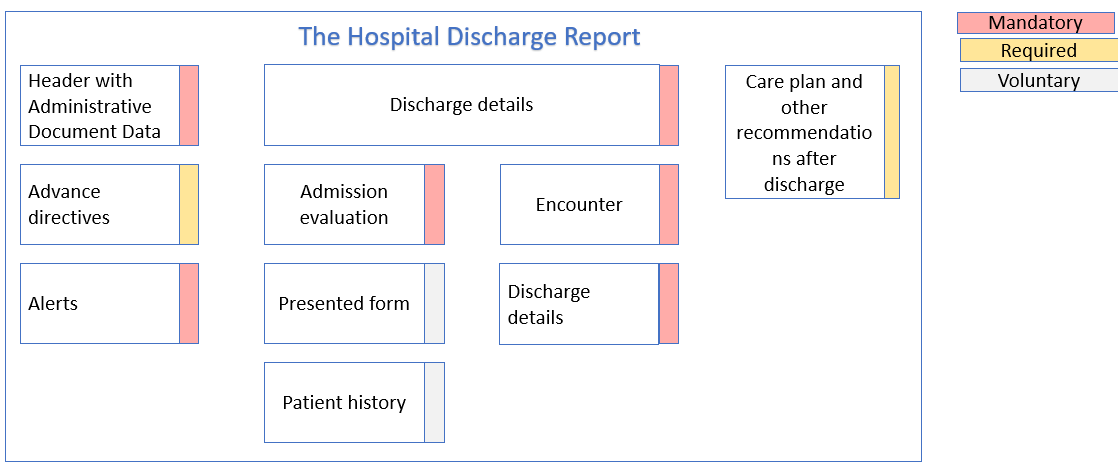
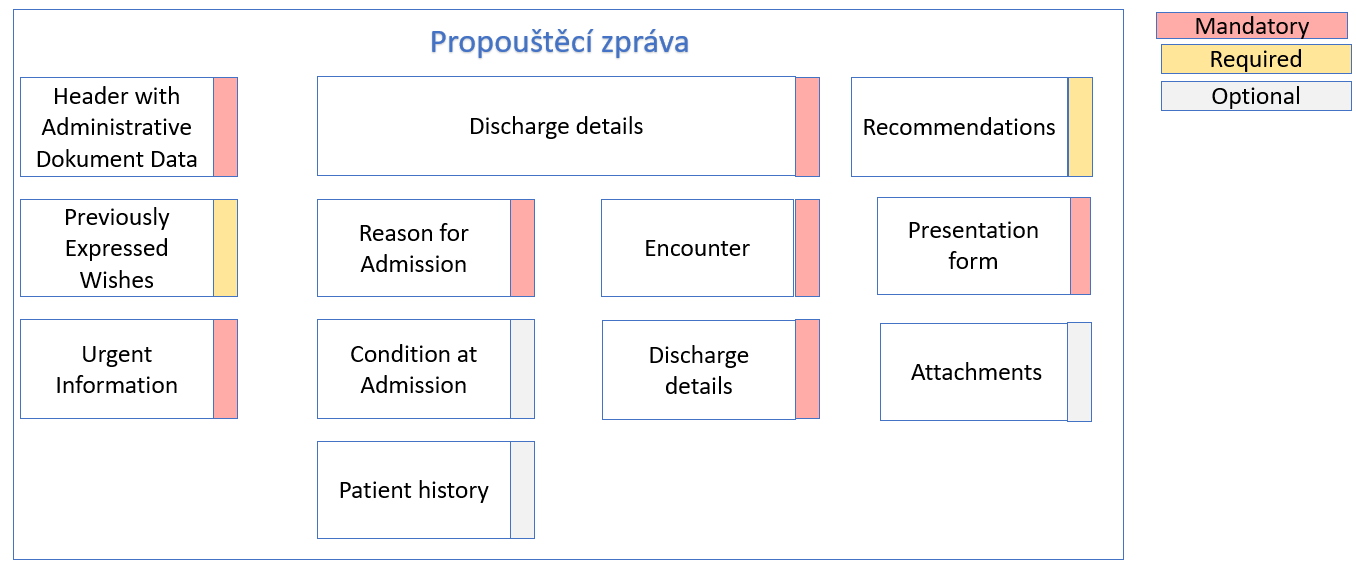
Práce na MENU IG zapracování připomínek

diff --git a/input/pagecontent/index.md b/input/pagecontent/index.md
@@ -10,10 +10,9 @@ This guide does not describe how to exchange this message.
 ### Information Models
 
 <div>
-  <img src="hdr_schema_EN.png" class="figure-img img-responsive img-rounded center-block" width="70%">
+  <img src="hdr_schema_en.png" class="figure-img img-responsive img-rounded center-block" width="70%">
   <p><strong>Fig. 1: Hospital discharge report structure</strong></p>
 </div>
-
 
 Basic Sections of the Hospital Discharge Report
 
@@ -27,9 +26,11 @@ Basic Sections of the Hospital Discharge Report
 | A.2.4 Reason for Admission | 0..1 | Required | [Link](ConceptMap-advanceDirectives2FHIR-cz-hdr.html) |
 | A.2.5 Condition at Admission (Initial Examination) | 0..1 | Optional | [Link](ConceptMap-advanceDirectives2FHIR-cz-hdr.html) |
 | A.2.6 Medical History | 0..1 | Optional | [Link](ConceptMap-advanceDirectives2FHIR-cz-hdr.html) |
-| A.2.7 Course of Hospitalization| 1..1| Mandatory| [Link](ConceptMap-advanceDirectives2FHIR-cz-hdr.html) |
-| A.2.8 Condition at Discharge|	1..1| Mandatory | [Link](ConceptMap-advanceDirectives2FHIR-cz-hdr.html) |
-| A.2.9 Recommendations| 0..1 | Required | [Link](ConceptMap-advanceDirectives2FHIR-cz-hdr.html) |
+| A.2.7 Course of Hospitalization | 1..1| Mandatory| [Link](ConceptMap-advanceDirectives2FHIR-cz-hdr.html) |
+| A.2.8 Condition at Discharge |	1..1| Mandatory | [Link](ConceptMap-advanceDirectives2FHIR-cz-hdr.html) |
+| A.2.9 Recommendations | 0..1 | Required | [Link](ConceptMap-advanceDirectives2FHIR-cz-hdr.html) |
+| A.3 Presentation form | 1..1 | Mandatory | [Link] |
+| A.4 Attachments | 0..1 | Optional | [Link] |
 
 
 ### Scope

diff --git a/input/pagecontent/model-map-cs.md b/input/pagecontent/model-map-cs.md
@@ -1,0 +1,17 @@
+Tato stránka obsahuje seznam stránek dokumentujících s grafickým znázorněním mapování mezi logickými modely a použitými zdroji/profily
+
+| Logical Model                | Link                                      |
+|------------------------|-------------------------------------------|
+| Propouštěcí zpráva     | [HospitalDischargeReport-map.html](HospitalDischargeReport-map.html) |
+| Hlavička dokumentu     | [Header-map.html](Header-map.html)        |
+| Subjekt                | [Subject-map.html](Subject-map.html)      |
+| Stav při přijetí       | [InPatientEncounter-map.html](InPatientEncounter-map.html) |
+| Důvod přijetí          | [AdmissionEvaluation-map.html](AdmissionEvaluation-map.html) |
+| Stav při propuštění    | [ObjectiveFindings-map.html](ObjectiveFindings-map.html) |
+| FunctionalStatus       | [FunctionalStatus-map.html](FunctionalStatus-map.html) |
+| Anamnéza               | [PatientHistoryEhn-map.html](PatientHistoryEhn-map.html) |
+| Údaje o hospitalizaci  | [HospitalStay-map.html](HospitalStay-map.html) |
+| Urgentní informace     | [Alerts-map.html](Alerts-map.html)        |
+| Dříve vyjádřená přání  | [AdvanceDirectives-map.html](AdvanceDirectives-map.html) |
+| Medikace               | [MedicationSummary-map.html](MedicationSummary-map.html) |
+| Plán péče              | [PlanOfCare-map.html](PlanOfCare-map.html) |

diff --git a/input/pagecontent/index-cs.md b/input/pagecontent/index-cs.md
@@ -11,7 +11,7 @@ Toto zahrnuje jak národní, tak přeshraniční scénáře.
 ### Information Models
 
 <div>
-  <img src="hdr_block.png" class="figure-img img-responsive img-rounded center-block" width="70%">
+  <img src="hdr_schema_cz.png" class="figure-img img-responsive img-rounded center-block" width="70%">
   <p><strong>Fig. 1: Struktura propouštěcí zprávy</strong></p>
 </div>
 
@@ -31,6 +31,9 @@ Základní sekce propouštěcí zprávy z nemocnice
 | A.2.7 Průběh hospitalizace | 1..1 | Povinné | [Composition.sectionDischargeDetails](http://hl7.cz/fhir/hdr/ConceptMap/hdr2FHIR-cz-hdr#HospitalDischargeReport.body.dischargeDetails) |
 | A.2.8 Stav při propuštění | 1..1 | Povinné | [Composition.sectionDischargeDetails.objectiveFindings](http://hl7.cz/fhir/hdr/ConceptMap/hdr2FHIR-cz-hdr#HospitalDischargeReport.body.dischargeDetails.objectiveFindings) *(+functional status, note…)* |
 | A.2.9 Doporučení | 0..1 | Požadováno | [Composition.sectionPlanOfCare / sectionDischargeMedications / sectionDischargeInstructions](http://hl7.cz/fhir/hdr/ConceptMap/hdr2FHIR-cz-hdr#HospitalDischargeReport.body.recommendations) |
+| A.3 Zobrazitelná forma dokumentu | 1..1 | Povinné | [Link] |
+| A.4 Přílohy | 0..1 | Volitelné | [Link] |
+
 
 
 ### Rozsah

diff --git a/input/pagecontent/downloads-cs.md b/input/pagecontent/downloads-cs.md
@@ -1,0 +1,35 @@
+### Celkové implementační příručka
+
+Implementační příručka lze nahrát [zde](full-ig.zip).
+
+### NPM Archiv a definice
+
+Následující soubor obsahuje všechny valuesety, profily, extenze, stránky a url apod. definované části této Implementační příručky:
+
+- [NPM Package](package.tgz)
+
+Kromě toho existují definiční soubory specifické pro daný formát:
+
+- [XML](definitions.xml.zip)
+- [JSON](definitions.json.zip)
+- [TTL](definitions.ttl.zip)
+
+Tyto soubory by měly být první volbou při generování jakýchkoli implementačních artefaktů, protože obsahují všechna pravidla o tom, proč jsou tyto profily platné.
+
+Existují také balíčky pro specifikace R4 a R4B FHIR:
+
+#### R4 NPM archiv a definice
+
+- [R4 NPM Archiv](package.r4.tgz)
+
+#### R4B NPM archiv a definice
+
+- [R4B NPM Archiv](package.r4b.tgz)
+
+### Příklady
+
+Všechny příklady použité v této Implementační příručce jsou k dispozici ke stažení:
+
+- [XML](examples.xml.zip)
+- [JSON](examples.json.zip)
+- [TTL](examples.ttl.zip)

diff --git a/input/pagecontent/examples-cs.md b/input/pagecontent/examples-cs.md
@@ -1,0 +1,18 @@
+Všechny příklady lze nalézt na stránce [artifacts](artifacts.html).
+
+
+### Příklad propouštěcí zprávy 
+
+ Hlavním příklad [Propouštěcí zpráva Novák Petr](Bundle-DischargeBundle-Novak-Petr.html) 
+
+### Příklady profilů
+
+ - Příklad [Pacient](Patient-Novak-Petr.html)
+ - Příklad [Průběh hospitalizace](Encounter-HospitalEncounter-Novak-Petr.html)
+ - Příklad [Plán péče](CarePlan-CarePlan-Novak-Petr.html)
+ - Příklad [Medikace: Euthyrox](MedicationStatement-MedicationStatement-Euthyrox-Novak.html)
+ - Příklad [Medikace: Ibalgin400](Medication-med-Ibalgin400.html)
+ - Příklad [Medikace: Paracetamol](Medication-med-paracetamol.html)
+ - Příklad [CRP](Observation-Observation-CRP-Novak.html)
+ - Příklad [UZV](Observation-Observation-UZV-Novak.html)
+ 

diff --git a/input/pagecontent/examples.md b/input/pagecontent/examples.md
@@ -1,0 +1,18 @@
+All examples can be found in the [artifacts](artifacts.html) page.
+
+### Imaging order example
+
+Main example [HDR Novák Petr](Bundle-DischargeBundle-Novak-Petr.html) 
+
+
+### Examples of profiles
+
+ - Exampl [Patient](Patient-Novak-Petr.html)
+ - Exampl [Encounter](Encounter-HospitalEncounter-Novak-Petr.html)
+ - Exampl [Care Plan](CarePlan-CarePlan-Novak-Petr.html)
+ - Exampl [MedicationStatement: Euthyrox](MedicationStatement-MedicationStatement-Euthyrox-Novak.html)
+ - Exampl [MedicationStatement: Ibalgin400](Medication-med-Ibalgin400.html)
+ - Exampl [MedicationStatement: Paracetamol](Medication-med-paracetamol.html)
+ - Exampl [CRP](Observation-Observation-CRP-Novak.html)
+ - Exampl [UZV](Observation-Observation-UZV-Novak.html)
+ 

diff --git a/input/pagecontent/obligations-cs.md b/input/pagecontent/obligations-cs.md
@@ -1,0 +1,10 @@
+<div xmlns="http://www.w3.org/1999/xhtml" xmlns:xsi="http://www.w3.org/2001/XMLSchema-instance"> 
+<blockquote class="stu-note"> 
+<b>Informativní pro tuto verzi průvodce</b> 
+<p>Do této verze příručky byly přidány povinnosti pouze jako informativní materiál ke shromažďování zpětné vazby o jejich používání.</p> 
+</blockquote>
+</div>
+
+### Přehled
+
+Na této stránce bude vložen přehled všech povinností.

diff --git a/input/pagecontent/background.md b/input/pagecontent/background.md
@@ -1,0 +1,7 @@
+<div xmlns="http://www.w3.org/1999/xhtml" xmlns:xsi="http://www.w3.org/2001/XMLSchema-instance"> 
+<blockquote class="stu-note"> 
+<b>This is being prepared for inclusion in the next version of the guidelines.</b> 
+<p>This section will include information that helps provide a broader overview of the outputs and the management of medical documentation of the discharge report type</p> 
+</blockquote>
+</div>
+

diff --git a/input/pagecontent/obligations.md b/input/pagecontent/obligations.md
@@ -1,0 +1,10 @@
+<div xmlns="http://www.w3.org/1999/xhtml" xmlns:xsi="http://www.w3.org/2001/XMLSchema-instance">
+<blockquote class="stu-note">
+<b>Informative for this version of the guide</b>
+<p>The obligations have been added to this version of the guide only as informative material to gather feedback on their use.</p>
+</blockquote>
+</div>
+
+### Overview
+
+This page will include an overview of all obligations.

diff --git a/input/pagecontent/background-cs.md b/input/pagecontent/background-cs.md
@@ -1,0 +1,8 @@
+<div xmlns="http://www.w3.org/1999/xhtml" xmlns:xsi="http://www.w3.org/2001/XMLSchema-instance"> 
+<blockquote class="stu-note"> 
+<b>Připravujeme do další verze příručky</b> 
+<p>Zde budou přidány informace, které pomohou získat širší přehled o výstupech a vedení zdravotnické dokumentace typu propouštěcí zpráva</p> 
+</blockquote>
+</div>
+
+

diff --git a/input/pagecontent/authors-cs.md b/input/pagecontent/authors-cs.md
@@ -1,0 +1,1 @@
+Tato implementační příručka byla vytvořena v rámci projektu: Podpora rozvoje digitální transformace ve zdravotnictví - „Interoperabilita I & Standardizační prostředí“.

diff --git a/input/pagecontent/authors.md b/input/pagecontent/authors.md
@@ -1,0 +1,1 @@
+This implementation guide was created as part of the project: Supporting the development of digital transformation in healthcare - "Interoperability I & Standardization Environment".
